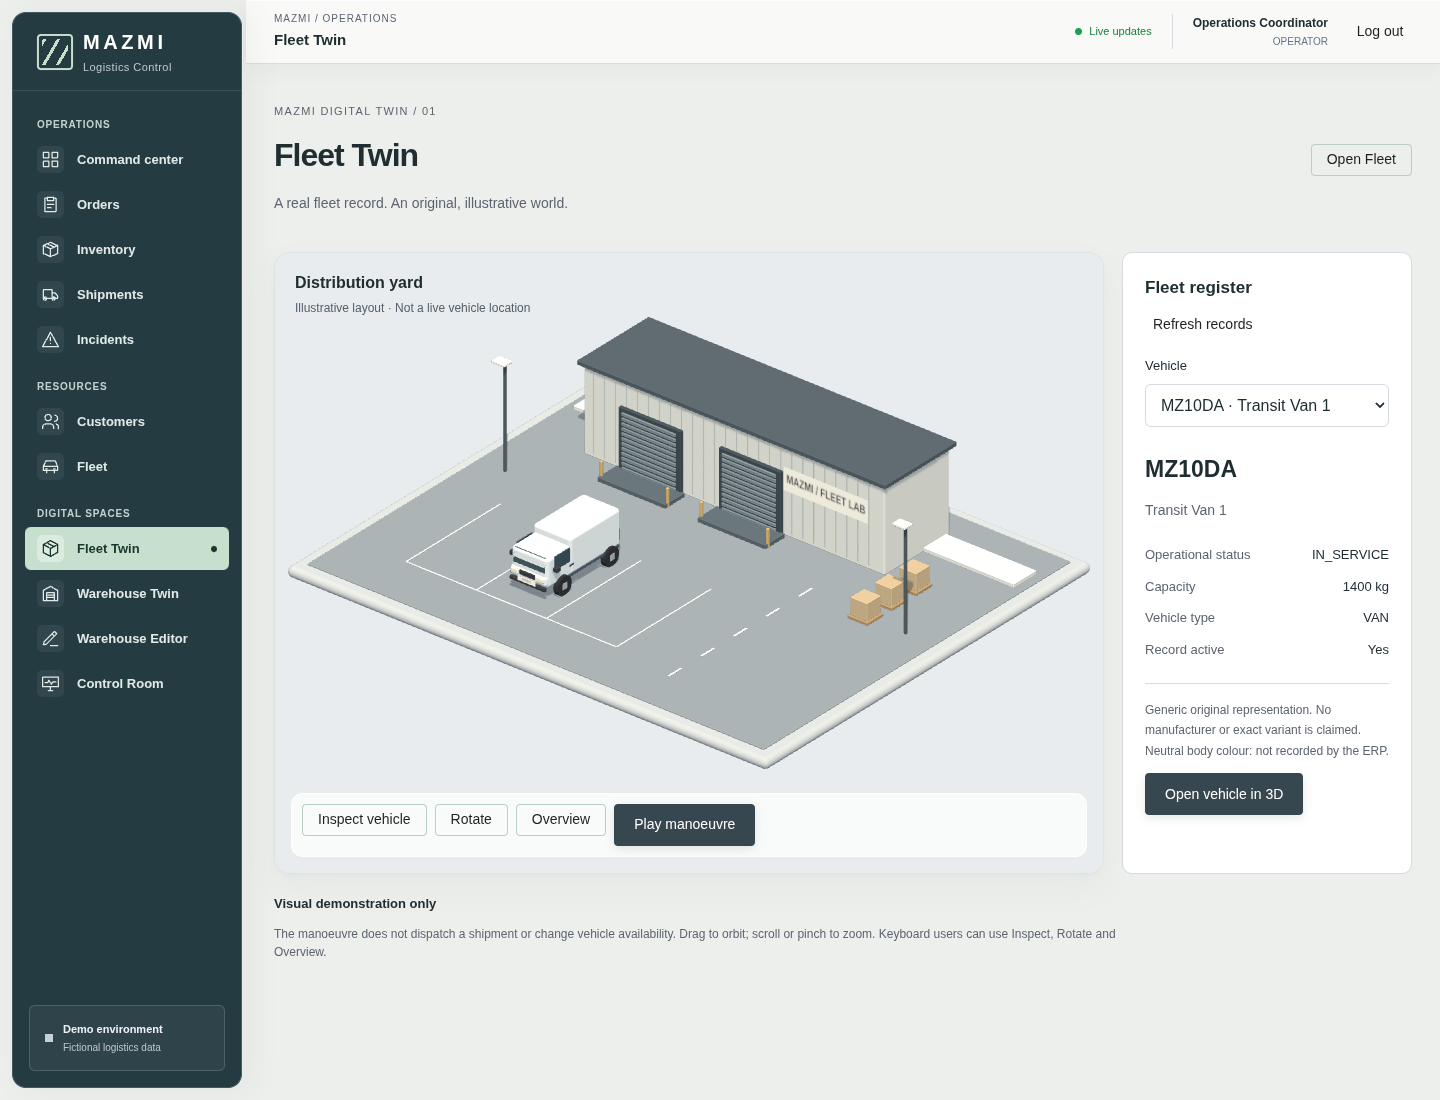
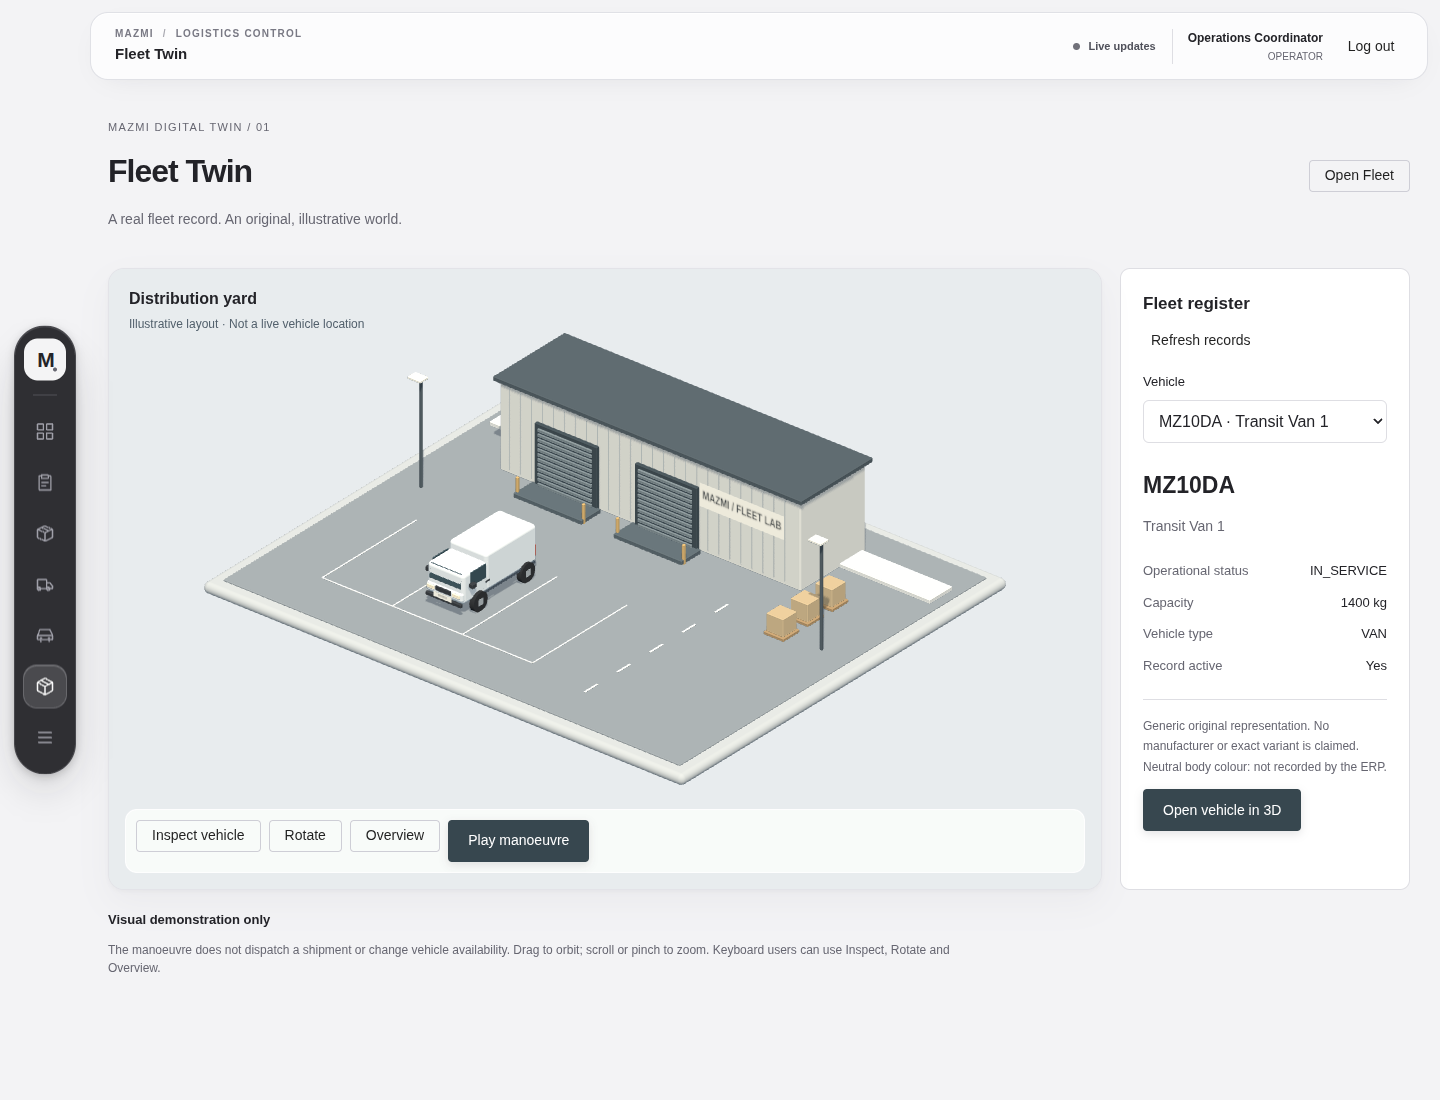
Documentar la navegación y renovar la galería con capturas verificadas

diff --git a/README.md b/README.md
@@ -81,11 +81,13 @@ El centro de operaciones reúne las excepciones, los envíos activos y el invent
 
 Las posiciones y maniobras son simuladas. [Flota y mapa](docs/digital-twin.md) · [Almacén](docs/warehouse-twin.md) · [Editor](docs/warehouse-editor.md).
 
-### En móvil
+### Navegación en escritorio y móvil
 
-| <a href="docs/screenshots/mobile-dock.webp"><img src="docs/screenshots/mobile-dock.webp" width="195" alt="Dock móvil con foco visible"></a> | <a href="docs/screenshots/mobile-orders.webp"><img src="docs/screenshots/mobile-orders.webp" width="195" alt="Pedidos en fichas a 390 px"></a> |
-|:---|:---|
-| Navegación con teclado | Pedidos a 390 px |
+El dock mantiene marcada la sección al abrir un detalle. [Ver el dock activo en un pedido](docs/screenshots/order-detail.webp) · [Ver el panel de espacios digitales](docs/screenshots/secondary-panel.webp).
+
+| Centro de operaciones | Menú secundario | Pedidos |
+|:---|:---|:---|
+| <a href="docs/screenshots/mobile-dashboard.webp"><img src="docs/screenshots/mobile-dashboard.webp" width="185" alt="Dashboard con el dock al pie"></a> | <a href="docs/screenshots/mobile-dock.webp"><img src="docs/screenshots/mobile-dock.webp" width="185" alt="Menú secundario abierto sobre el ERP"></a> | <a href="docs/screenshots/mobile-orders.webp"><img src="docs/screenshots/mobile-orders.webp" width="185" alt="Pedidos en fichas a 390 px"></a> |
 
 [Materiales, movimiento y accesibilidad de MAZMI Glass](docs/mazmi-glass.md).
 

diff --git a/docs/mazmi-glass.md b/docs/mazmi-glass.md
@@ -19,4 +19,6 @@ El magnetismo se calcula desde el cursor hasta el centro de cada botón. Se tran
 
 La [galería del proyecto](../README.md#capturas) muestra la aplicación con los datos demo. El [workflow de captura](../.github/workflows/capture-demo.yml) arranca Angular, Spring Boot y PostgreSQL y abre Chromium con Playwright. Además de tomar imágenes, verifica la navegación por teclado, la preferencia de movimiento reducido, el contraste del botón **New order**, los desbordamientos y los flujos operativos y 3D.
 
+Para comparar el cambio sin duplicar imágenes antiguas en el repositorio: [captura anterior al ajuste del dock](https://github.com/LucaMZM/mazmi-logistics-control/actions/runs/44293648546) y [captura de la interfaz revisada](https://github.com/LucaMZM/mazmi-logistics-control/actions/runs/44299941981). La portada del dashboard se capturó en Chromium local con el mismo frontend, Spring Boot y PostgreSQL 17: incluye los 1513 px de la página completa. El resto de la galería procede del runner. Los artefactos de Actions son temporales; la galería del README queda versionada con el proyecto.
+
 Las capturas son fotogramas, no una medición de fluidez. Chromium con SwiftShader permite comprobar que una escena se dibuja; no mide el rendimiento de Safari ni de la GPU de un MacBook Air M2.
